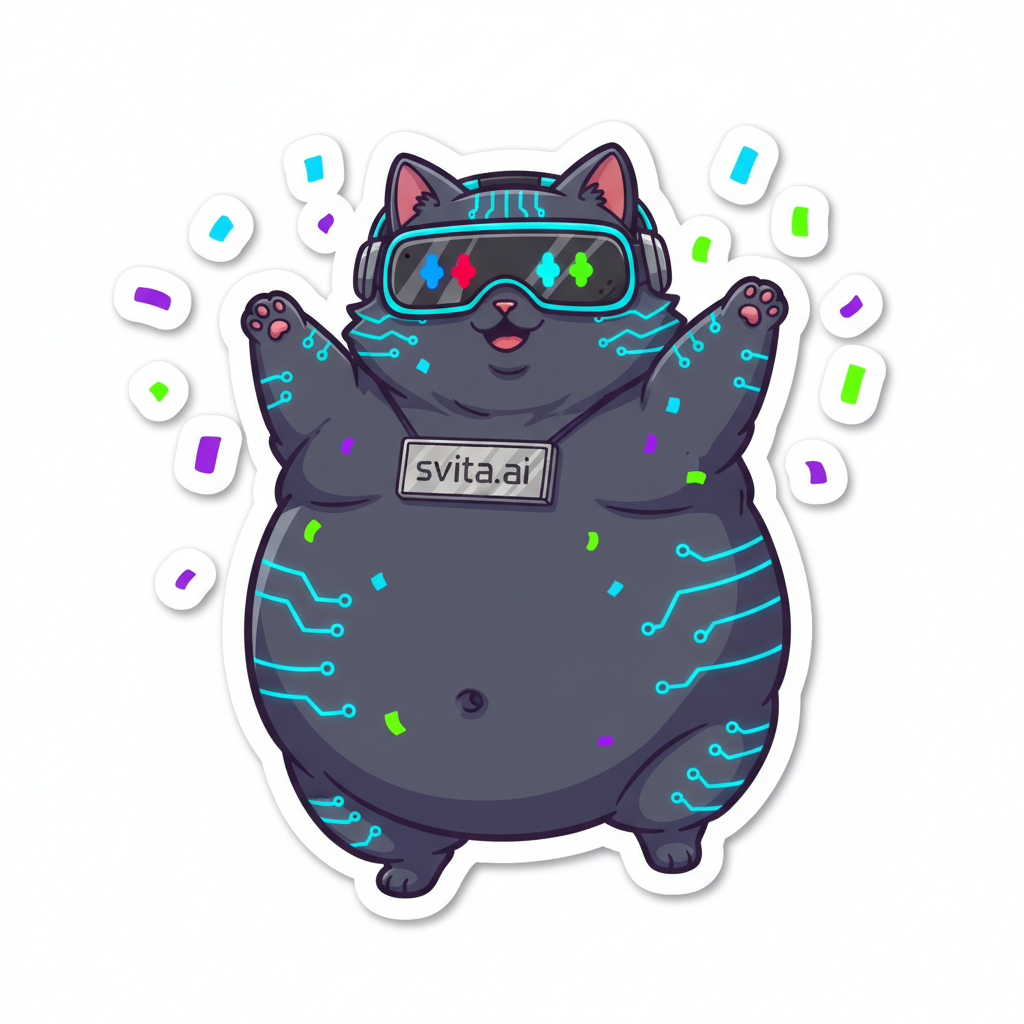
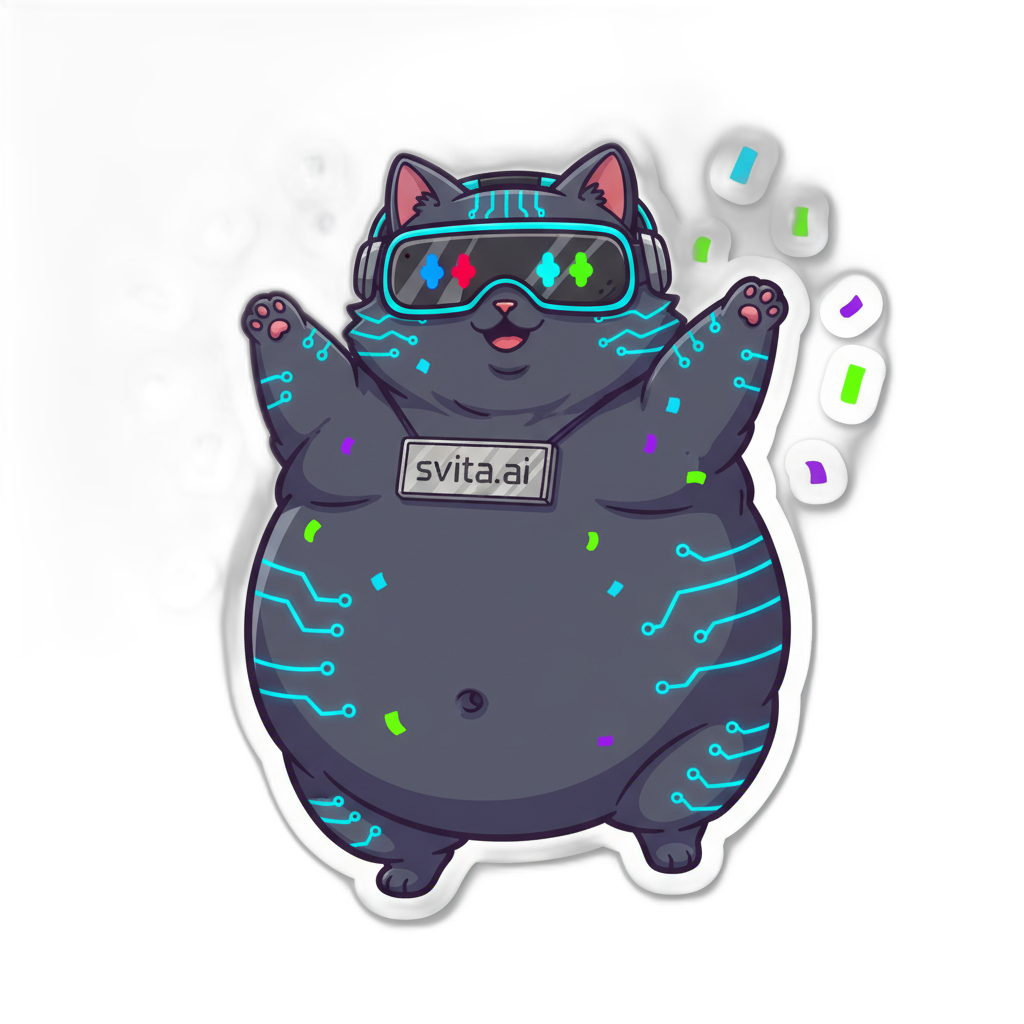
fix: rembg all stickers, enlarge cats across page

diff --git a/index.html b/index.html
@@ -62,7 +62,7 @@ nav{position:fixed;top:16px;left:16px;right:16px;height:56px;background:rgba(15,
 .hero-actions{display:flex;gap:14px;flex-wrap:wrap}
 .hero-actions .btn{padding:14px 32px;font-size:15px;border-radius:14px}
 .hero-visual{position:relative;display:flex;align-items:center;justify-content:center}
-.hero-cat{width:320px;height:320px;position:relative;z-index:2}
+.hero-cat{width:380px;height:380px;position:relative;z-index:2}
 .hero-cat img{width:100%;height:100%;object-fit:contain;filter:drop-shadow(0 0 40px rgba(139,92,246,.3))}
 .hero-glow{position:absolute;width:400px;height:400px;background:radial-gradient(circle,rgba(139,92,246,.2) 0%,transparent 70%);border-radius:50%;z-index:1}
 .hero-stats{display:flex;gap:40px;margin-top:52px}
@@ -85,7 +85,7 @@ nav{position:fixed;top:16px;left:16px;right:16px;height:56px;background:rgba(15,
 .feature-icon svg{width:24px;height:24px;stroke:var(--pr2);fill:none;stroke-width:1.5}
 .feature-card h3{font-size:16px;font-weight:700;margin-bottom:10px}
 .feature-card p{font-size:13px;color:var(--tx2);line-height:1.7;font-family:var(--f2)}
-.feature-card .cat-peek{position:absolute;bottom:-8px;right:-4px;width:64px;opacity:.5;transition:opacity .3s}
+.feature-card .cat-peek{position:absolute;bottom:-8px;right:-4px;width:90px;opacity:.55;transition:opacity .3s}
 .feature-card:hover .cat-peek{opacity:.85}
 
 /* HOW IT WORKS */
@@ -94,8 +94,8 @@ nav{position:fixed;top:16px;left:16px;right:16px;height:56px;background:rgba(15,
 .steps{display:grid;grid-template-columns:repeat(3,1fr);gap:32px;margin-top:56px}
 .step{text-align:center;position:relative}
 .step-num{width:48px;height:48px;border-radius:50%;background:var(--glass2);border:1px solid var(--bd2);display:flex;align-items:center;justify-content:center;font-size:18px;font-weight:800;color:var(--pr2);margin:0 auto 20px}
-.step-cat{width:80px;height:80px;margin:0 auto 16px;border-radius:50%;overflow:hidden;border:2px solid var(--bd);background:var(--bg2)}
-.step-cat img{width:100%;height:100%;object-fit:cover}
+.step-cat{width:120px;height:120px;margin:0 auto 16px;border-radius:50%;overflow:hidden;border:2px solid var(--bd);background:var(--bg2)}
+.step-cat img{width:100%;height:100%;object-fit:contain}
 .step h4{font-size:15px;font-weight:700;margin-bottom:8px}
 .step p{font-size:13px;color:var(--tx2);line-height:1.6;font-family:var(--f2);max-width:260px;margin:0 auto}
 .step-line{position:absolute;top:24px;left:calc(50% + 40px);width:calc(100% - 80px);height:1px;background:linear-gradient(90deg,var(--bd2),transparent)}
@@ -124,7 +124,7 @@ nav{position:fixed;top:16px;left:16px;right:16px;height:56px;background:rgba(15,
 .cta-box h2{font-size:clamp(24px,3vw,36px);font-weight:800;margin-bottom:12px;position:relative}
 .cta-box p{font-size:15px;color:var(--tx2);margin-bottom:32px;font-family:var(--f2);position:relative}
 .cta-box .btn{position:relative}
-.cta-cat{position:absolute;bottom:-10px;right:24px;width:100px;opacity:.6;z-index:0}
+.cta-cat{position:absolute;bottom:-10px;right:24px;width:180px;opacity:.75;z-index:0}
 
 /* FOOTER */
 footer{padding:40px;border-top:1px solid var(--bd-w);display:flex;align-items:center;justify-content:space-between;font-size:12px;color:var(--tx3);position:relative;z-index:1}
